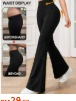
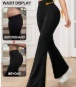
Fix Featured Categories layout, crop product watermark badges, and fix horizontal page overflow

diff --git a/resources/views/frontend/home.blade.php b/resources/views/frontend/home.blade.php
@@ -128,42 +128,40 @@
         }
     @endphp
 
-    <div class="category-recommend-wrapper" style="background:#F6F6F6; padding: 22px 0 16px; margin-top: 14px;" data-component-name="CATEGORY_RECOMMEND_COMPONENT_1">
+    <div class="category-recommend-wrapper" style="background:#F6F6F6; padding: 22px 0 18px; margin-top: 14px; overflow: hidden;" data-component-name="CATEGORY_RECOMMEND_COMPONENT_1">
         <div class="shein-wrap" style="max-width: 1440px; margin: 0 auto; padding: 0 16px;">
-            <div style="display: flex; align-items: center; justify-content: space-between; margin-bottom: 14px;">
+            <div style="display: flex; align-items: center; justify-content: space-between; margin-bottom: 16px;">
                 <div>
-                    <h2 style="font-size: 19px; font-weight: 900; text-transform: uppercase; color: #111111; letter-spacing: 0.5px; margin: 0;">
-                        🔥 Featured Categories
+                    <h2 style="font-size: 19px; font-weight: 900; text-transform: uppercase; color: #111111; letter-spacing: 0.5px; margin: 0; display: flex; align-items: center; gap: 8px;">
+                        <span>🔥</span> Featured Categories
                     </h2>
-                    <p style="font-size: 12px; color: #767676; margin: 2px 0 0;">Explore our top curated styles & collections</p>
+                    <p style="font-size: 12px; color: #767676; margin: 3px 0 0;">Explore our top curated styles & collections</p>
                 </div>
                 <a href="{{ route('frontend.category', 'all') }}" style="font-size: 12px; font-weight: 700; color: #FA2C19; text-decoration: none; display: flex; align-items: center; gap: 4px;">
                     View All Categories <i class="fa-solid fa-chevron-right" style="font-size: 10px;"></i>
                 </a>
             </div>
 
-            <div style="position:relative;">
-                <button type="button" class="category-swiper-btn-prev" onclick="document.querySelector('.category-recommend-dynamic__swiper').swiper.slidePrev()" style="position:absolute; left:-12px; top:50%; transform:translateY(-50%); width:32px; height:32px; background:#fff; border-radius:50%; box-shadow:0 2px 8px rgba(0,0,0,0.15); z-index:10; display:flex; align-items:center; justify-content:center; cursor:pointer;"><i class="fa-solid fa-chevron-left" style="font-size:12px;"></i></button>
-                <button type="button" class="category-swiper-btn-next" onclick="document.querySelector('.category-recommend-dynamic__swiper').swiper.slideNext()" style="position:absolute; right:-12px; top:50%; transform:translateY(-50%); width:32px; height:32px; background:#fff; border-radius:50%; box-shadow:0 2px 8px rgba(0,0,0,0.15); z-index:10; display:flex; align-items:center; justify-content:center; cursor:pointer;"><i class="fa-solid fa-chevron-right" style="font-size:12px;"></i></button>
+            <div style="position: relative;">
+                <button type="button" class="category-swiper-btn-prev" onclick="document.querySelector('.category-recommend-dynamic__swiper').swiper.slidePrev()" style="position: absolute; left: -10px; top: 38%; transform: translateY(-50%); width: 34px; height: 34px; background: #fff; border-radius: 50%; box-shadow: 0 3px 10px rgba(0,0,0,0.18); z-index: 10; display: flex; align-items: center; justify-content: center; cursor: pointer; border: 1px solid #eee;"><i class="fa-solid fa-chevron-left" style="font-size: 12px; color: #111;"></i></button>
+                <button type="button" class="category-swiper-btn-next" onclick="document.querySelector('.category-recommend-dynamic__swiper').swiper.slideNext()" style="position: absolute; right: -10px; top: 38%; transform: translateY(-50%); width: 34px; height: 34px; background: #fff; border-radius: 50%; box-shadow: 0 3px 10px rgba(0,0,0,0.18); z-index: 10; display: flex; align-items: center; justify-content: center; cursor: pointer; border: 1px solid #eee;"><i class="fa-solid fa-chevron-right" style="font-size: 12px; color: #111;"></i></button>
                 
-                <swiper-container class-name="linear-mode" class="category-recommend-dynamic__swiper" slides-per-view="auto" space-between="12" observer="true">
-                    @foreach($displayItems->chunk(3) as $catChunk)
-                        <swiper-slide class="category-recommend-dynamic__slide">
-                            @foreach($catChunk as $index => $cItem)
-                                @php
-                                    $targetUrl = ($cItem instanceof \App\Models\SubCategory)
-                                        ? (route('frontend.category', $cItem->category_id) . '?subcategory=' . $cItem->id)
-                                        : route('frontend.category', $cItem->slug ?: $cItem->id);
-                                @endphp
-                                <div class="category-recommend-dynamic__img_wrapper a11y-focus" da-rid="category_{{ $index }}" role="link" tabindex="0" aria-label="{{ $cItem->name }}">
-                                    <div class="base-img category-recommend-dynamic__img" style="background-color:#F0EEEC;">
-                                        <a href="{{ $targetUrl }}" style="padding-bottom:100.00%;" class="base-img__href" aria-hidden="true" tabindex="-1">
-                                            <img style="object-position:initial;" class="base-img__cover fsp__category-recommend-placeholder base-img__inner fsp-element" src="{{ $cItem->image_url }}" alt="{{ $cItem->name }}" fetchpriority="auto">
-                                        </a>
-                                    </div>
-                                    <div style="color:#000000;" class="category-recommend-dynamic__name">{{ $cItem->name }}</div>
+                <swiper-container class="category-recommend-dynamic__swiper" slides-per-view="auto" space-between="16" observer="true" style="width: 100%; overflow: hidden;">
+                    @foreach($displayItems as $cItem)
+                        @php
+                            $targetUrl = ($cItem instanceof \App\Models\SubCategory)
+                                ? (route('frontend.category', $cItem->category_id) . '?subcategory=' . $cItem->id)
+                                : route('frontend.category', $cItem->slug ?: $cItem->id);
+                        @endphp
+                        <swiper-slide style="width: 86px !important; flex-shrink: 0;">
+                            <a href="{{ $targetUrl }}" class="cat-circle-card" style="display: flex; flex-direction: column; align-items: center; text-decoration: none; width: 86px; text-align: center; cursor: pointer;">
+                                <div style="width: 72px; height: 72px; border-radius: 50%; overflow: hidden; background: #ffffff; border: 2px solid #ffffff; box-shadow: 0 2px 8px rgba(0,0,0,0.08); transition: transform 0.2s, box-shadow 0.2s; display: flex; align-items: center; justify-content: center; margin: 0 auto;" onmouseover="this.style.transform='scale(1.08)'; this.style.boxShadow='0 4px 14px rgba(250,44,25,0.25)';" onmouseout="this.style.transform='none'; this.style.boxShadow='0 2px 8px rgba(0,0,0,0.08)';">
+                                    <img src="{{ $cItem->image_url }}" alt="{{ $cItem->name }}" loading="lazy" style="width: 100%; height: 100%; object-fit: cover;">
                                 </div>
-                            @endforeach
+                                <span style="font-size: 11px; font-weight: 700; color: #222222; margin-top: 8px; line-height: 1.25; text-align: center; display: -webkit-box; -webkit-line-clamp: 2; -webkit-box-orient: vertical; overflow: hidden; max-width: 80px;">
+                                    {{ $cItem->name }}
+                                </span>
+                            </a>
                         </swiper-slide>
                     @endforeach
                 </swiper-container>

diff --git a/resources/views/frontend/product-detail.blade.php b/resources/views/frontend/product-detail.blade.php
@@ -279,11 +279,11 @@
         <h3 style="font-size: 20px; font-weight: 800; text-transform: uppercase; margin-bottom: 20px;">
             YOU MAY ALSO LIKE (RELATED PRODUCTS)
         </h3>
-        <div class="shein-product-grid" style="display: grid; grid-template-columns: repeat(6, 1fr); gap: 14px;" class="related-grid">
+        <div class="shein-product-grid related-grid" style="display: grid; grid-template-columns: repeat(6, 1fr); gap: 14px;">
             @foreach($relatedProducts as $rel)
                 <div class="product-card" style="display: flex; flex-direction: column; background: #fff;">
-                    <div style="position: relative; width: 100%; aspect-ratio: 3/4; overflow: hidden; background: #f6f6f6; cursor: pointer;" onclick="window.location='{{ route('frontend.product', $rel['id']) }}'">
-                        <img src="{{ $rel['image_primary'] }}" alt="{{ $rel['name'] }}" loading="lazy" style="width: 100%; height: 100%; object-fit: cover;">
+                    <div style="position: relative; width: 100%; aspect-ratio: 3/4; overflow: hidden; background: #f6f6f6; cursor: pointer; border-radius: 3px;" onclick="window.location='{{ route('frontend.product', $rel['id']) }}'">
+                        <img src="{{ $rel['image_primary'] }}" alt="{{ $rel['name'] }}" loading="lazy" style="width: 100%; height: 100%; object-fit: cover; object-position: top center;">
                         @if(isset($rel['discount']) && $rel['discount'] > 0)
                             <span style="position: absolute; top: 6px; left: 6px; background: #FA2C19; color: #fff; font-size: 9px; font-weight: 800; padding: 2px 5px; border-radius: 2px;">
                                 -{{ $rel['discount'] }}%

diff --git a/resources/views/frontend/layouts/master.blade.php b/resources/views/frontend/layouts/master.blade.php
@@ -38,6 +38,17 @@
             --shein-font: 'Jost', 'Mulish', -apple-system, system-ui, 'Helvetica Neue', Arial, sans-serif;
         }
 
+        *, *::before, *::after {
+            box-sizing: border-box;
+        }
+
+        html, body {
+            max-width: 100vw !important;
+            width: 100% !important;
+            overflow-x: hidden !important;
+            box-sizing: border-box;
+        }
+
         body {
             font-family: var(--shein-font) !important;
             color: var(--shein-text);
@@ -46,7 +57,6 @@
             padding: 0;
             font-size: 13px;
             line-height: 1.4;
-            overflow-x: hidden;
             -webkit-font-smoothing: antialiased;
         }
 
@@ -54,6 +64,11 @@
         a:hover { color: var(--shein-red); text-decoration: none; }
         button { font-family: inherit; cursor: pointer; border: none; outline: none; background: transparent; }
         img { max-width: 100%; height: auto; display: block; }
+
+        .product-card img, .super-deal-card img, .trend-deal-card img, .shein-product-item img {
+            object-fit: cover !important;
+            object-position: top center !important;
+        }
 
         .shein-wrap {
             max-width: 1440px;
